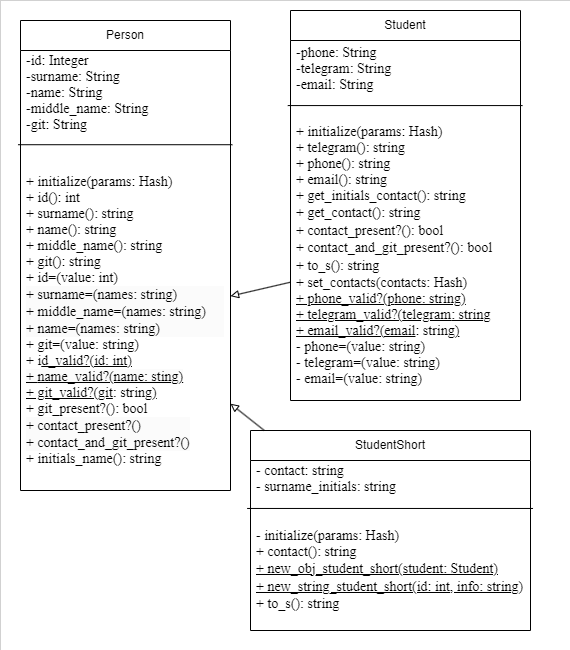
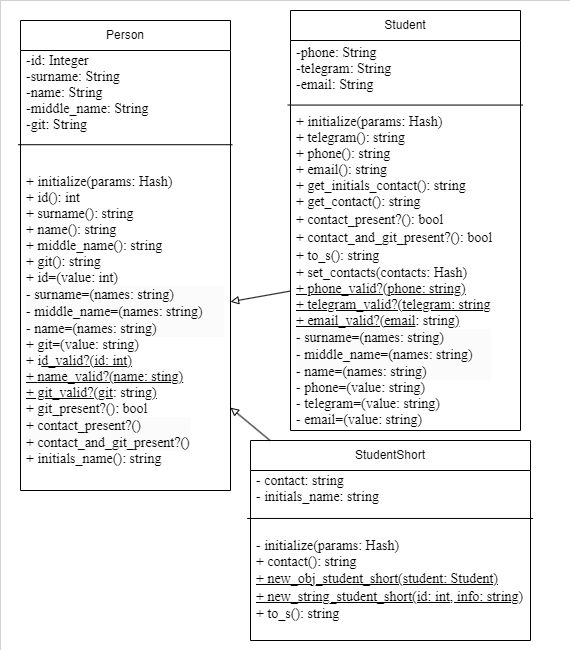
any methods make private

diff --git a/working with classes/Student_short.rb b/working with classes/Student_short.rb
@@ -8,7 +8,7 @@ class StudentShort < Person
   def self.new_obj_student_short(student)
     new(
       id: student.id,
-      surname_initials: student.initials_name,
+      initials_name: student.initials_name,
       git: student.git,
       contact: student.phone || student.telegram || student.email
     )
@@ -20,14 +20,14 @@ class StudentShort < Person
     raise ArgumentError, 'Некорректная строка информации' unless parts.size == 3
     new(
       id: id,
-      surname_initials: parts[0],
+      initials_name: parts[0],
       git: parts[1].sub('GitHub: ', '').strip,
       contact: parts[2].sub('Связь: ', '').strip
     )
   end
 
   def to_s
-    "#{@id} #{@surname_initials} #{@git} #{@contact}"
+    "#{@id} #{@initials_name} #{@git} #{@contact}"
   end
 
   private_class_method :new
@@ -35,7 +35,7 @@ class StudentShort < Person
 
   def initialize(params)
     @id = params[:id]
-    @surname_initials = initials_name
+    @initials_name = initials_name
     @git = params[:git]
     @contact = params[:contact]
   end

diff --git a/working with classes/Student.rb b/working with classes/Student.rb
@@ -57,6 +57,18 @@ class Student < Person
 
   private
 
+  def surname=(names)
+    super(names)
+  end
+
+  def middle_name=(names)
+    super(names)
+  end
+
+  def name=(names)
+    super(names)
+  end
+
   def phone=(value)
     raise ArgumentError, 'Некорректный номер телефона' unless self.class.phone_valid?(value)
     @phone = value
